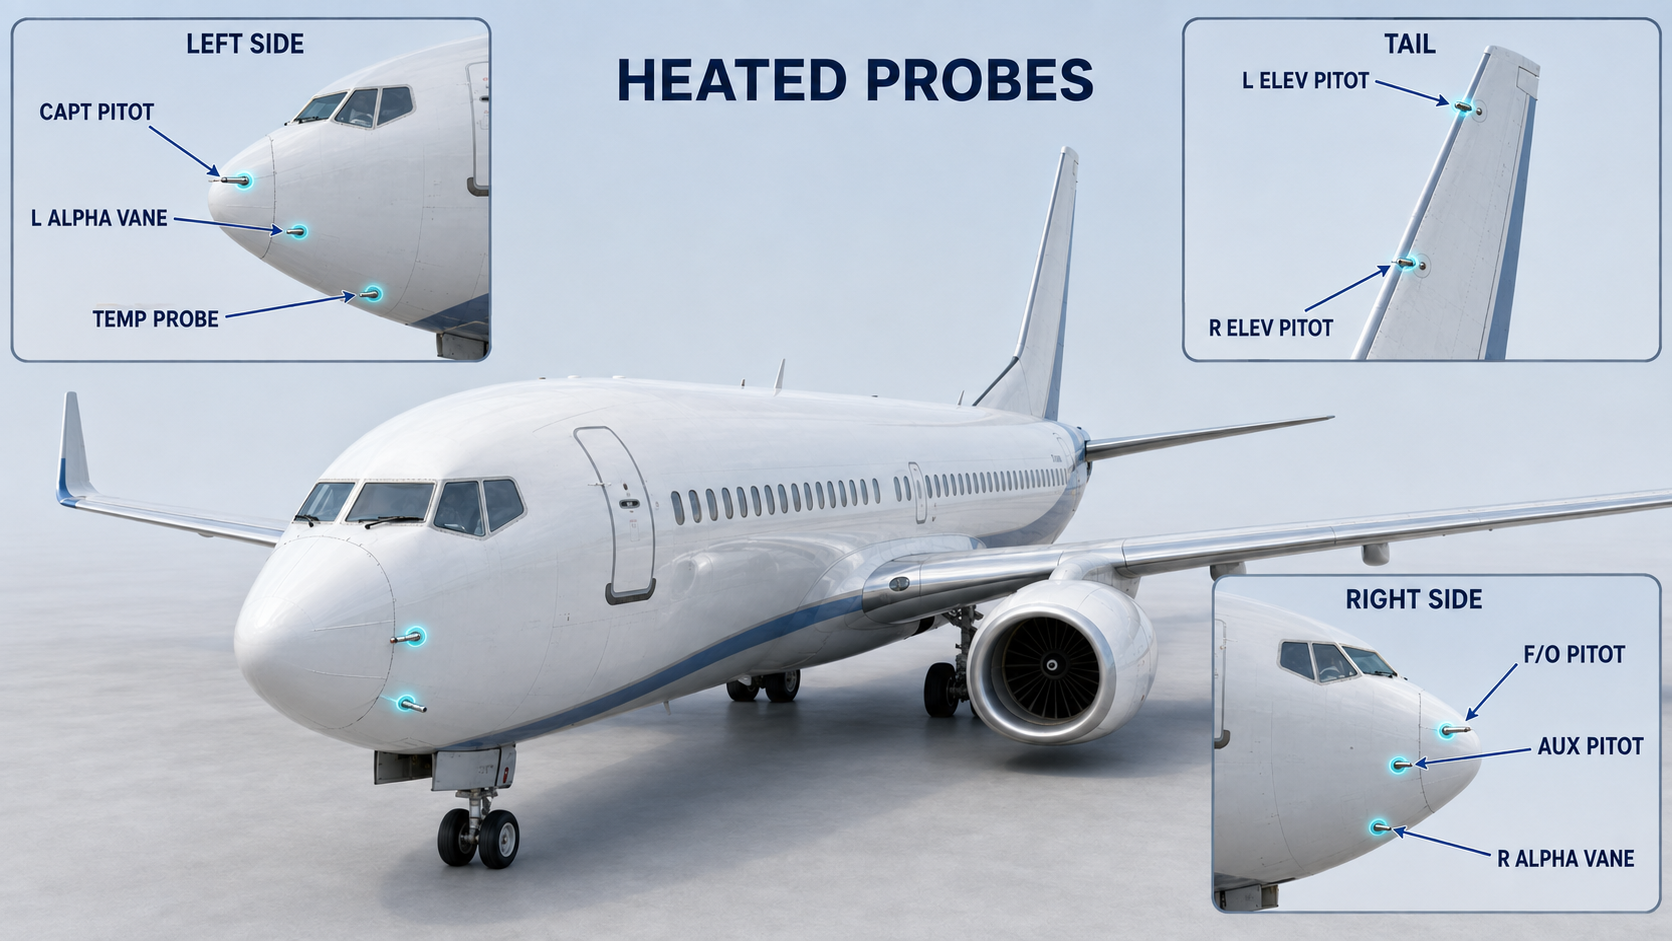
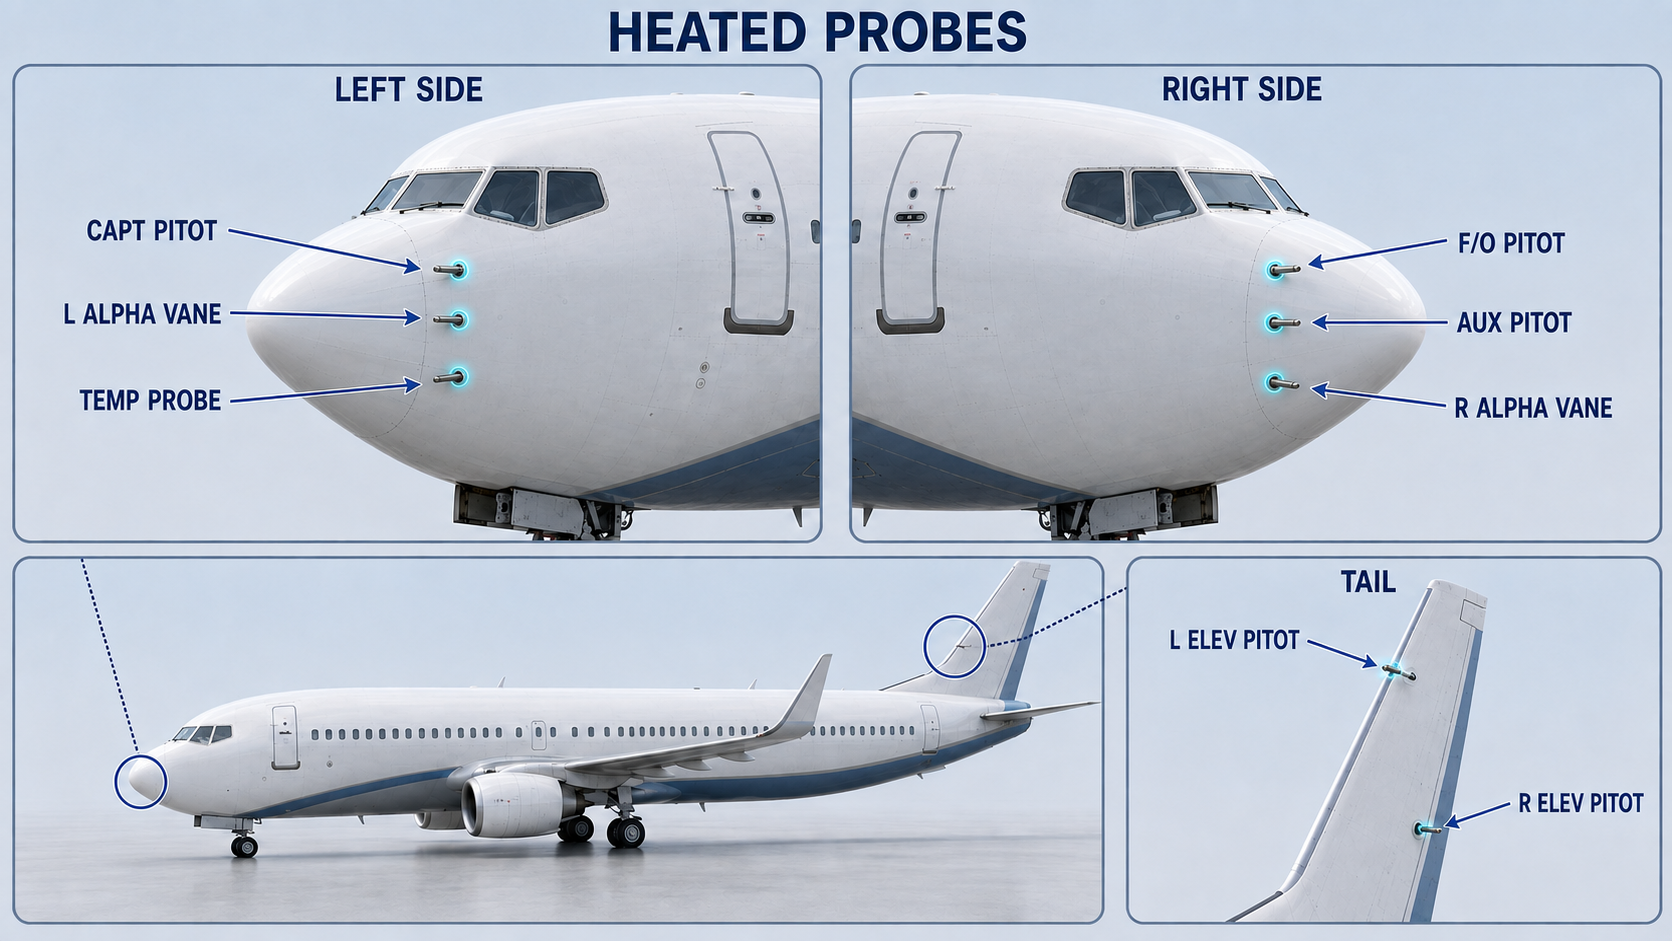
Expand anti-ice controls and warnings

diff --git a/app/systems/anti-ice-rain/page.tsx b/app/systems/anti-ice-rain/page.tsx
@@ -94,7 +94,6 @@ export default function AntiIceRain() {
             <div className="selector-strip"><span>PARK</span><span>INT · 7 s</span><span>LOW</span><span>HIGH</span></div>
             <ul className="study-points"><li><strong>PARK:</strong> stops the motor and stows the blade.</li><li><strong>INT:</strong> one sweep cycle approximately every seven seconds.</li><li><strong>LOW / HIGH:</strong> continuous operation at the selected speed.</li></ul>
             <Warning title="DRY WINDSHIELD">Operating the wipers on a dry windshield can scratch the windshield.</Warning>
-            <Need title="Two independent selectors"><p>The captain controls the left wiper and the first officer controls the right wiper.</p></Need>
             <Source>NG 3.10.2, 3.20.4 · MAX 3.10.2, 3.20.3</Source>
           </section>
 
@@ -109,6 +108,10 @@ export default function AntiIceRain() {
             </figure>
             <h3>Command</h3>
             <p>Two switches control probe heat systems A and B. Selecting <strong>ON</strong> supplies electrical power to the related heaters directly. On panels fitted with an <strong>AUTO</strong> position, both systems are powered automatically as soon as either engine is running; when neither engine is running, automatic heating is removed.</p>
+            <figure className="figure course-photo panel-photo">
+              <img src="/images/probe-heat-panel.png" alt="737 probe heat panel with A and B AUTO and ON switches and eight amber probe lights" />
+              <figcaption>Probe heat systems A and B, shown with AUTO / ON switches.</figcaption>
+            </figure>
             <Max>The supplied MAX uses AUTO/ON probe-heat switches. Some earlier NG aircraft use OFF/ON switches and therefore have no automatic mode: the crew must select probe heat ON. Later or modified NG aircraft may also use AUTO/ON switches, so the installed panel remains the controlling reference.</Max>
             <h3>Warning</h3>
             <p>An amber probe-heat light means that the related probe or sensor is not being heated. It identifies loss of the expected heating function rather than the presence of ice.</p>
@@ -121,9 +124,14 @@ export default function AntiIceRain() {
           <section className="course-section" id="wing">
             <span className="section-num">05 / WING ANTI-ICE</span>
             <h2>Bleed air heats the three inboard leading-edge slats on each wing; the leading-edge flaps and outboard slats remain unheated.</h2>
+            <h3>Description</h3>
+            <p>The wing thermal anti-ice system takes engine bleed air from the pneumatic manifold and routes it through two AC motor-operated control valves. With a valve open, hot air passes through the three inboard leading-edge slats on that wing and is then exhausted overboard. The system remains effective with the slats in any position.</p>
             <WingAntiIceDiagram />
-            <h3>In flight</h3><p>Selecting WING ANTI-ICE ON opens both AC motor-operated control valves and activates icing stall-warning logic. Duct-temperature and thrust-setting logic do not control valve operation in flight.</p>
-            <h3>On the ground</h3><p>Both valves open only while both engines remain below the takeoff-warning thrust setting and both distribution ducts remain below the thermal-switch temperature. High thrust or a hot duct closes the valves; they reopen when both conditions return to normal. The switch stays ON but automatically trips OFF at lift-off.</p>
+            <h3>Command</h3>
+            <p><strong>In flight,</strong> selecting WING ANTI-ICE ON opens both control valves and activates icing stall-warning logic. Duct-temperature and thrust-setting logic do not control valve operation in flight.</p>
+            <p><strong>On the ground,</strong> both valves open only while both engines remain below the takeoff-warning thrust setting and both distribution ducts remain below the thermal-switch temperature. High thrust or a hot duct closes the valves; they reopen when both conditions return to normal. The switch stays ON but automatically trips OFF at lift-off.</p>
+            <h3>Warning</h3>
+            <p>The valve lights show movement or a disagreement between the selected switch position and the actual position of the related wing anti-ice valve.</p>
             <div className="indication-grid"><div className="indication blue"><strong>NG · VALVE OPEN</strong><p>Bright blue means transit or disagreement; dim blue means the valve is open.</p></div><div className="indication amber"><strong>MAX · L/R VALVE</strong><p>Amber momentarily in transit; steady amber means valve position disagrees with the switch.</p></div></div>
             <Max>MAX wing-valve indications are amber and normally extinguished when valve position agrees with the switch. The supplied NG uses blue VALVE OPEN lights: dim when open and bright during transit or disagreement.</Max>
             <Need title="Only the inboard slats"><p>Wing anti-ice is effective with the slats in any position and uses engine bleed air.</p></Need>
@@ -133,10 +141,16 @@ export default function AntiIceRain() {
           <section className="course-section" id="engine">
             <span className="section-num">06 / ENGINE ANTI-ICE</span>
             <h2>Engine bleed air flows through a controlled valve to prevent ice from forming on each engine cowl lip.</h2>
-            <ul className="study-points"><li><strong>Control:</strong> one ENG ANTI-ICE switch per engine; available on the ground and in flight.</li><li><strong>Valve:</strong> electrically controlled and pressure actuated.</li><li><strong>COWL ANTI-ICE:</strong> amber indicates excessive pressure downstream of the cowl anti-ice valve.</li><li><strong>TAI:</strong> green when the cowl valve is open; amber when valve position disagrees with the switch.</li></ul>
+            <h3>Description</h3>
+            <p>Each engine has an electrically controlled, pressure-actuated cowl anti-ice valve. When open, it routes engine bleed air around the cowl lip to prevent ice formation. The cowl system can operate both on the ground and in flight.</p>
+            <Max>The MAX also protects the engine core. The EEC automatically directs bleed air to the core as required from engine and atmospheric data, with no crew input or indication during normal operation.</Max>
+            <h3>Command</h3>
+            <p>One ENG ANTI-ICE switch controls the cowl anti-ice valve on each engine. Selecting ON opens the related valve, supplies hot bleed air to the cowl lip and activates icing stall-warning logic. Selecting OFF closes the valve; normal stall-warning logic returns only if wing anti-ice has not been used in flight.</p>
+            <Deep title="Go deeper · MAX idle logic"><p>With engine anti-ice ON, the supplied MAX uses icing idle with flaps UP and approach idle with the flaps extended. With engine anti-ice OFF, it uses flight idle below 15° and approach idle at 15° or more.</p></Deep>
+            <h3>Warning</h3>
+            <ul className="study-points"><li><strong>COWL ANTI-ICE:</strong> amber indicates excessive pressure downstream of the cowl anti-ice valve.</li><li><strong>TAI:</strong> green when the cowl valve is open; amber when valve position disagrees with the switch.</li></ul>
             <div className="indication-grid"><div className="indication blue"><strong>NG · COWL VALVE OPEN</strong><p>Dim blue when open; bright blue during transit or when position disagrees.</p></div><div className="indication amber"><strong>MAX · COWL VALVE</strong><p>Amber momentarily during transit and steady for a position disagreement; otherwise extinguished.</p></div></div>
-            <Max>The MAX also protects the engine core. The EEC automatically directs bleed air to the core as required from engine and atmospheric data, with no crew input or indication during normal operation. An amber ENG ANTI-ICE light indicates that cowl thermal anti-ice has been inhibited by a failure or that a core anti-ice valve has failed closed.</Max>
-            <Deep title="Go deeper · MAX idle logic"><p>With engine anti-ice ON, the supplied MAX uses icing idle with flaps UP and approach idle with flaps below 15° or at 15° and above. With engine anti-ice OFF, it uses flight idle below 15° and approach idle at 15° or more.</p></Deep>
+            <Max>An amber ENG ANTI-ICE light on the MAX indicates that cowl thermal anti-ice has been inhibited by a system failure or that an engine core anti-ice valve has failed closed.</Max>
             <Need title="Cowl lip on NG · cowl and core on MAX"><p>The flight crew directly selects cowl anti-ice. MAX core anti-ice is automatic through the EEC.</p></Need>
             <Source>NG 3.10.4–5, 3.20.5–6 · MAX 3.10.3–4, 3.20.4–6</Source>
           </section>
